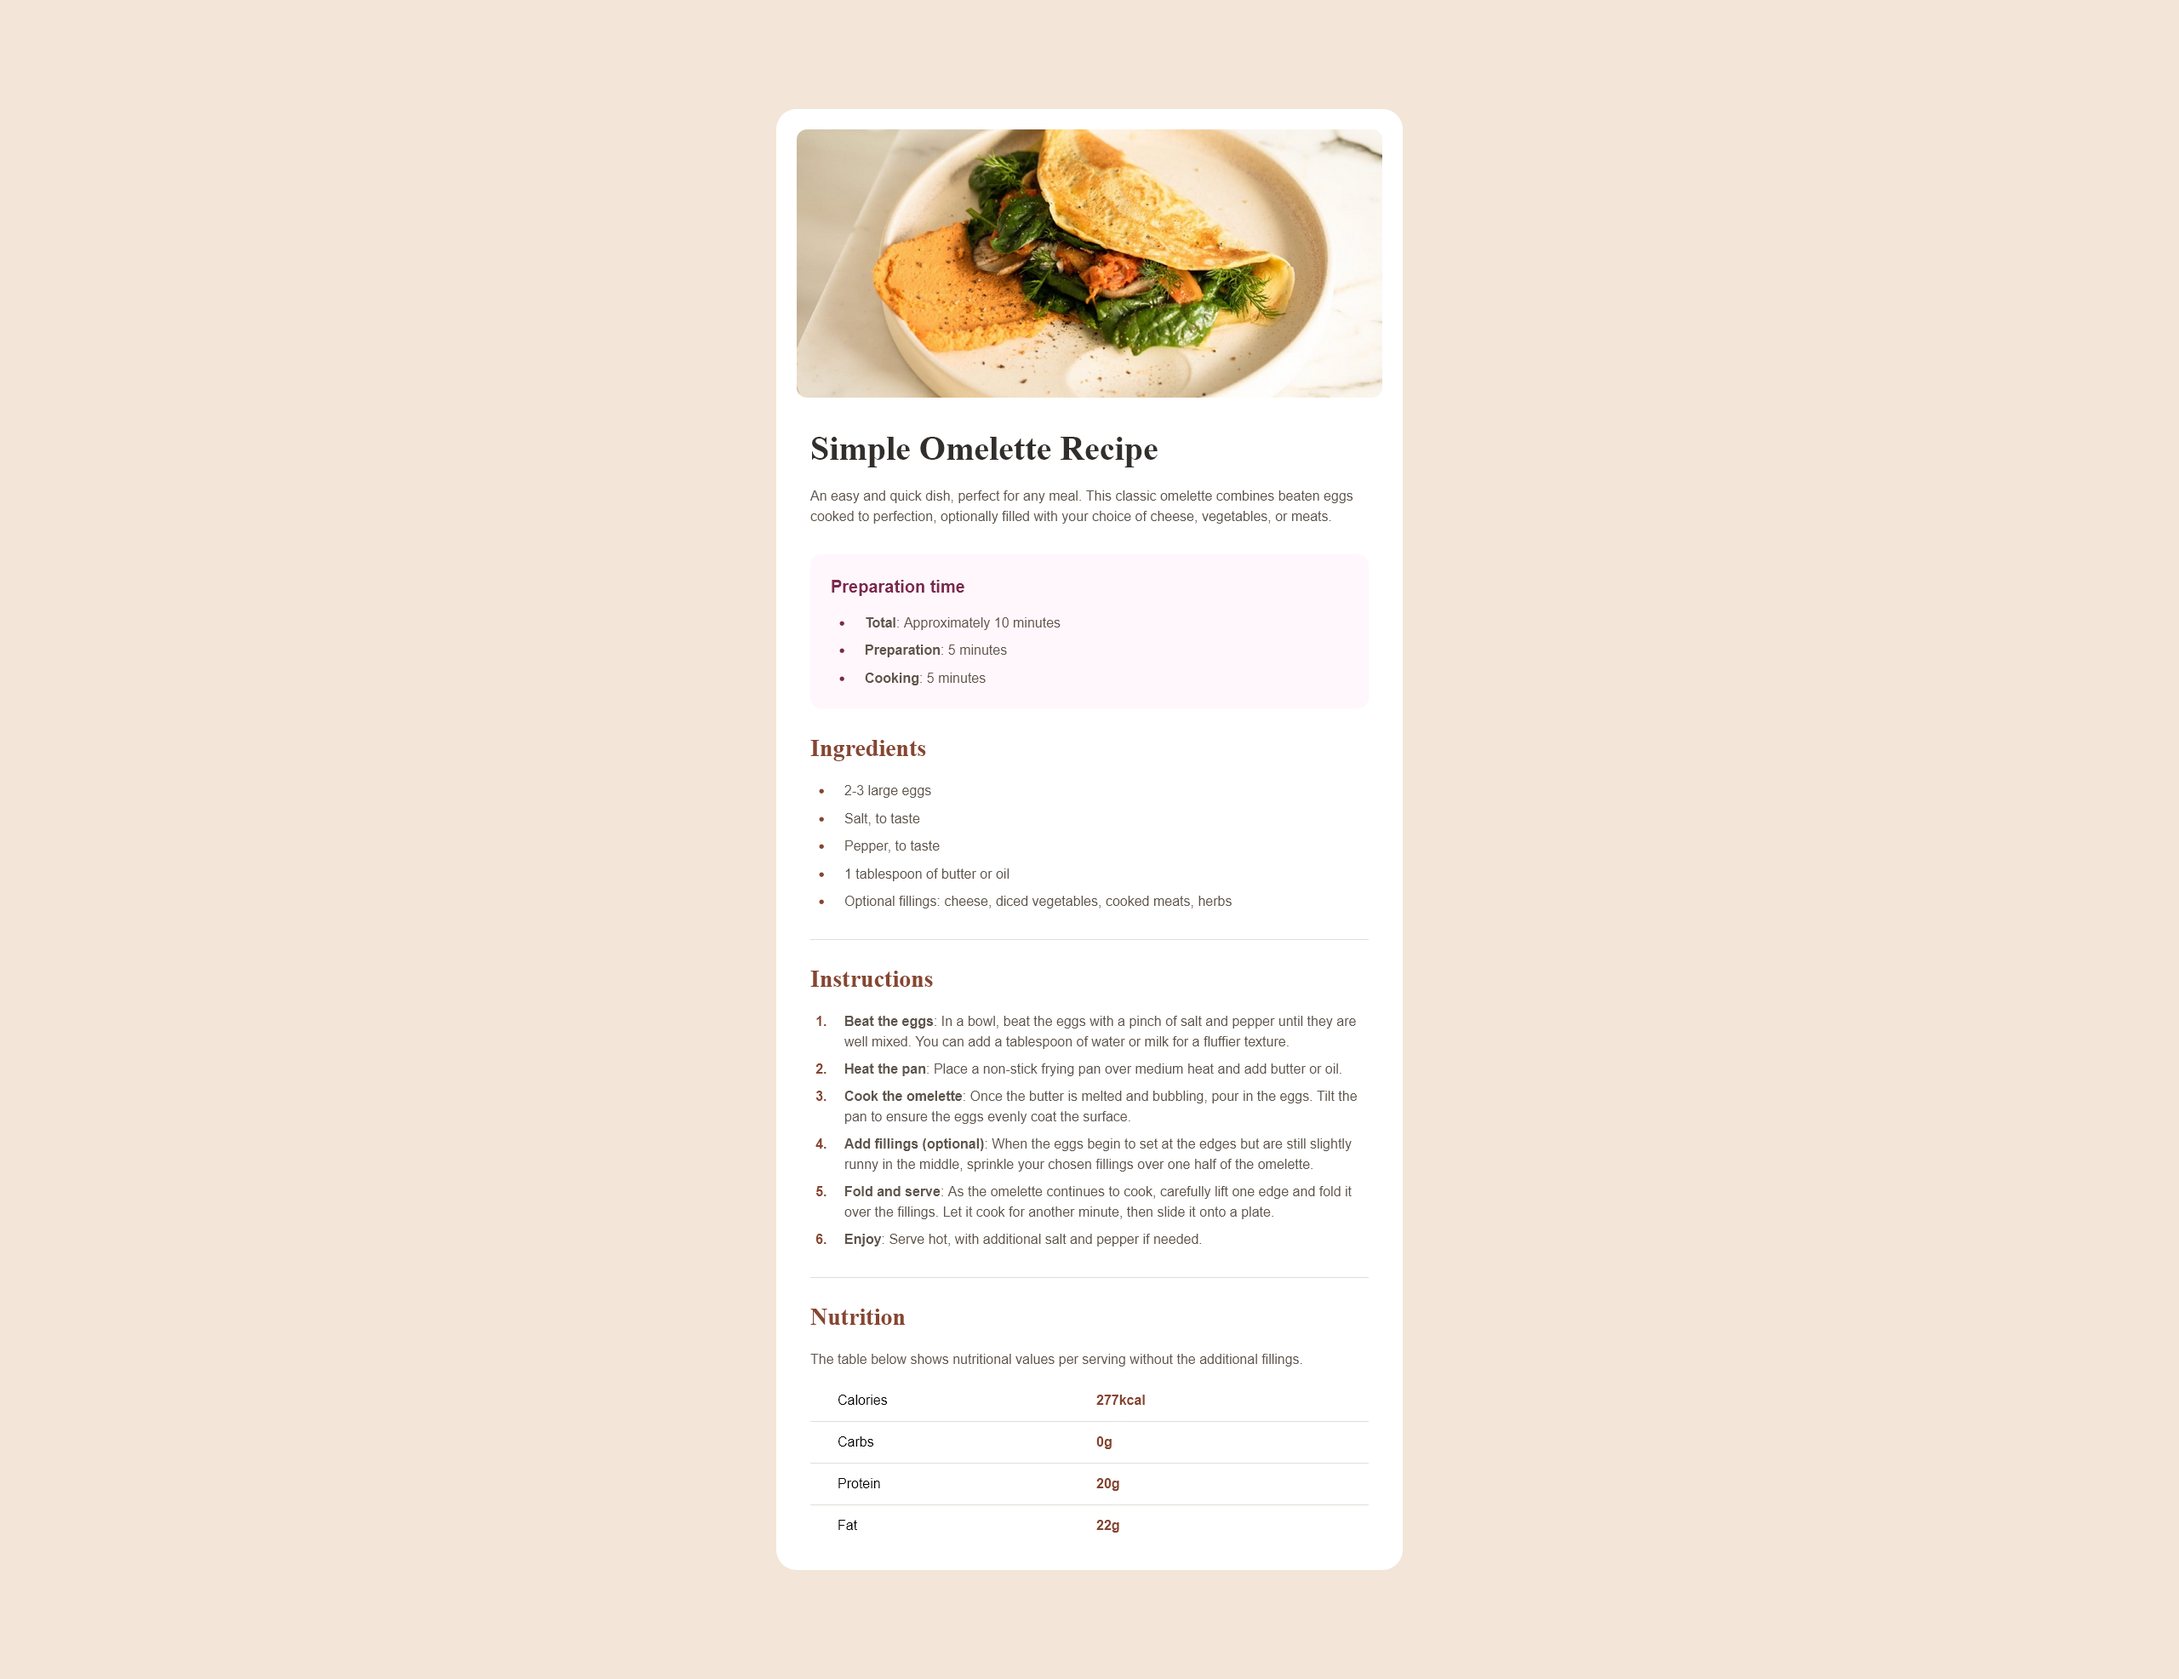
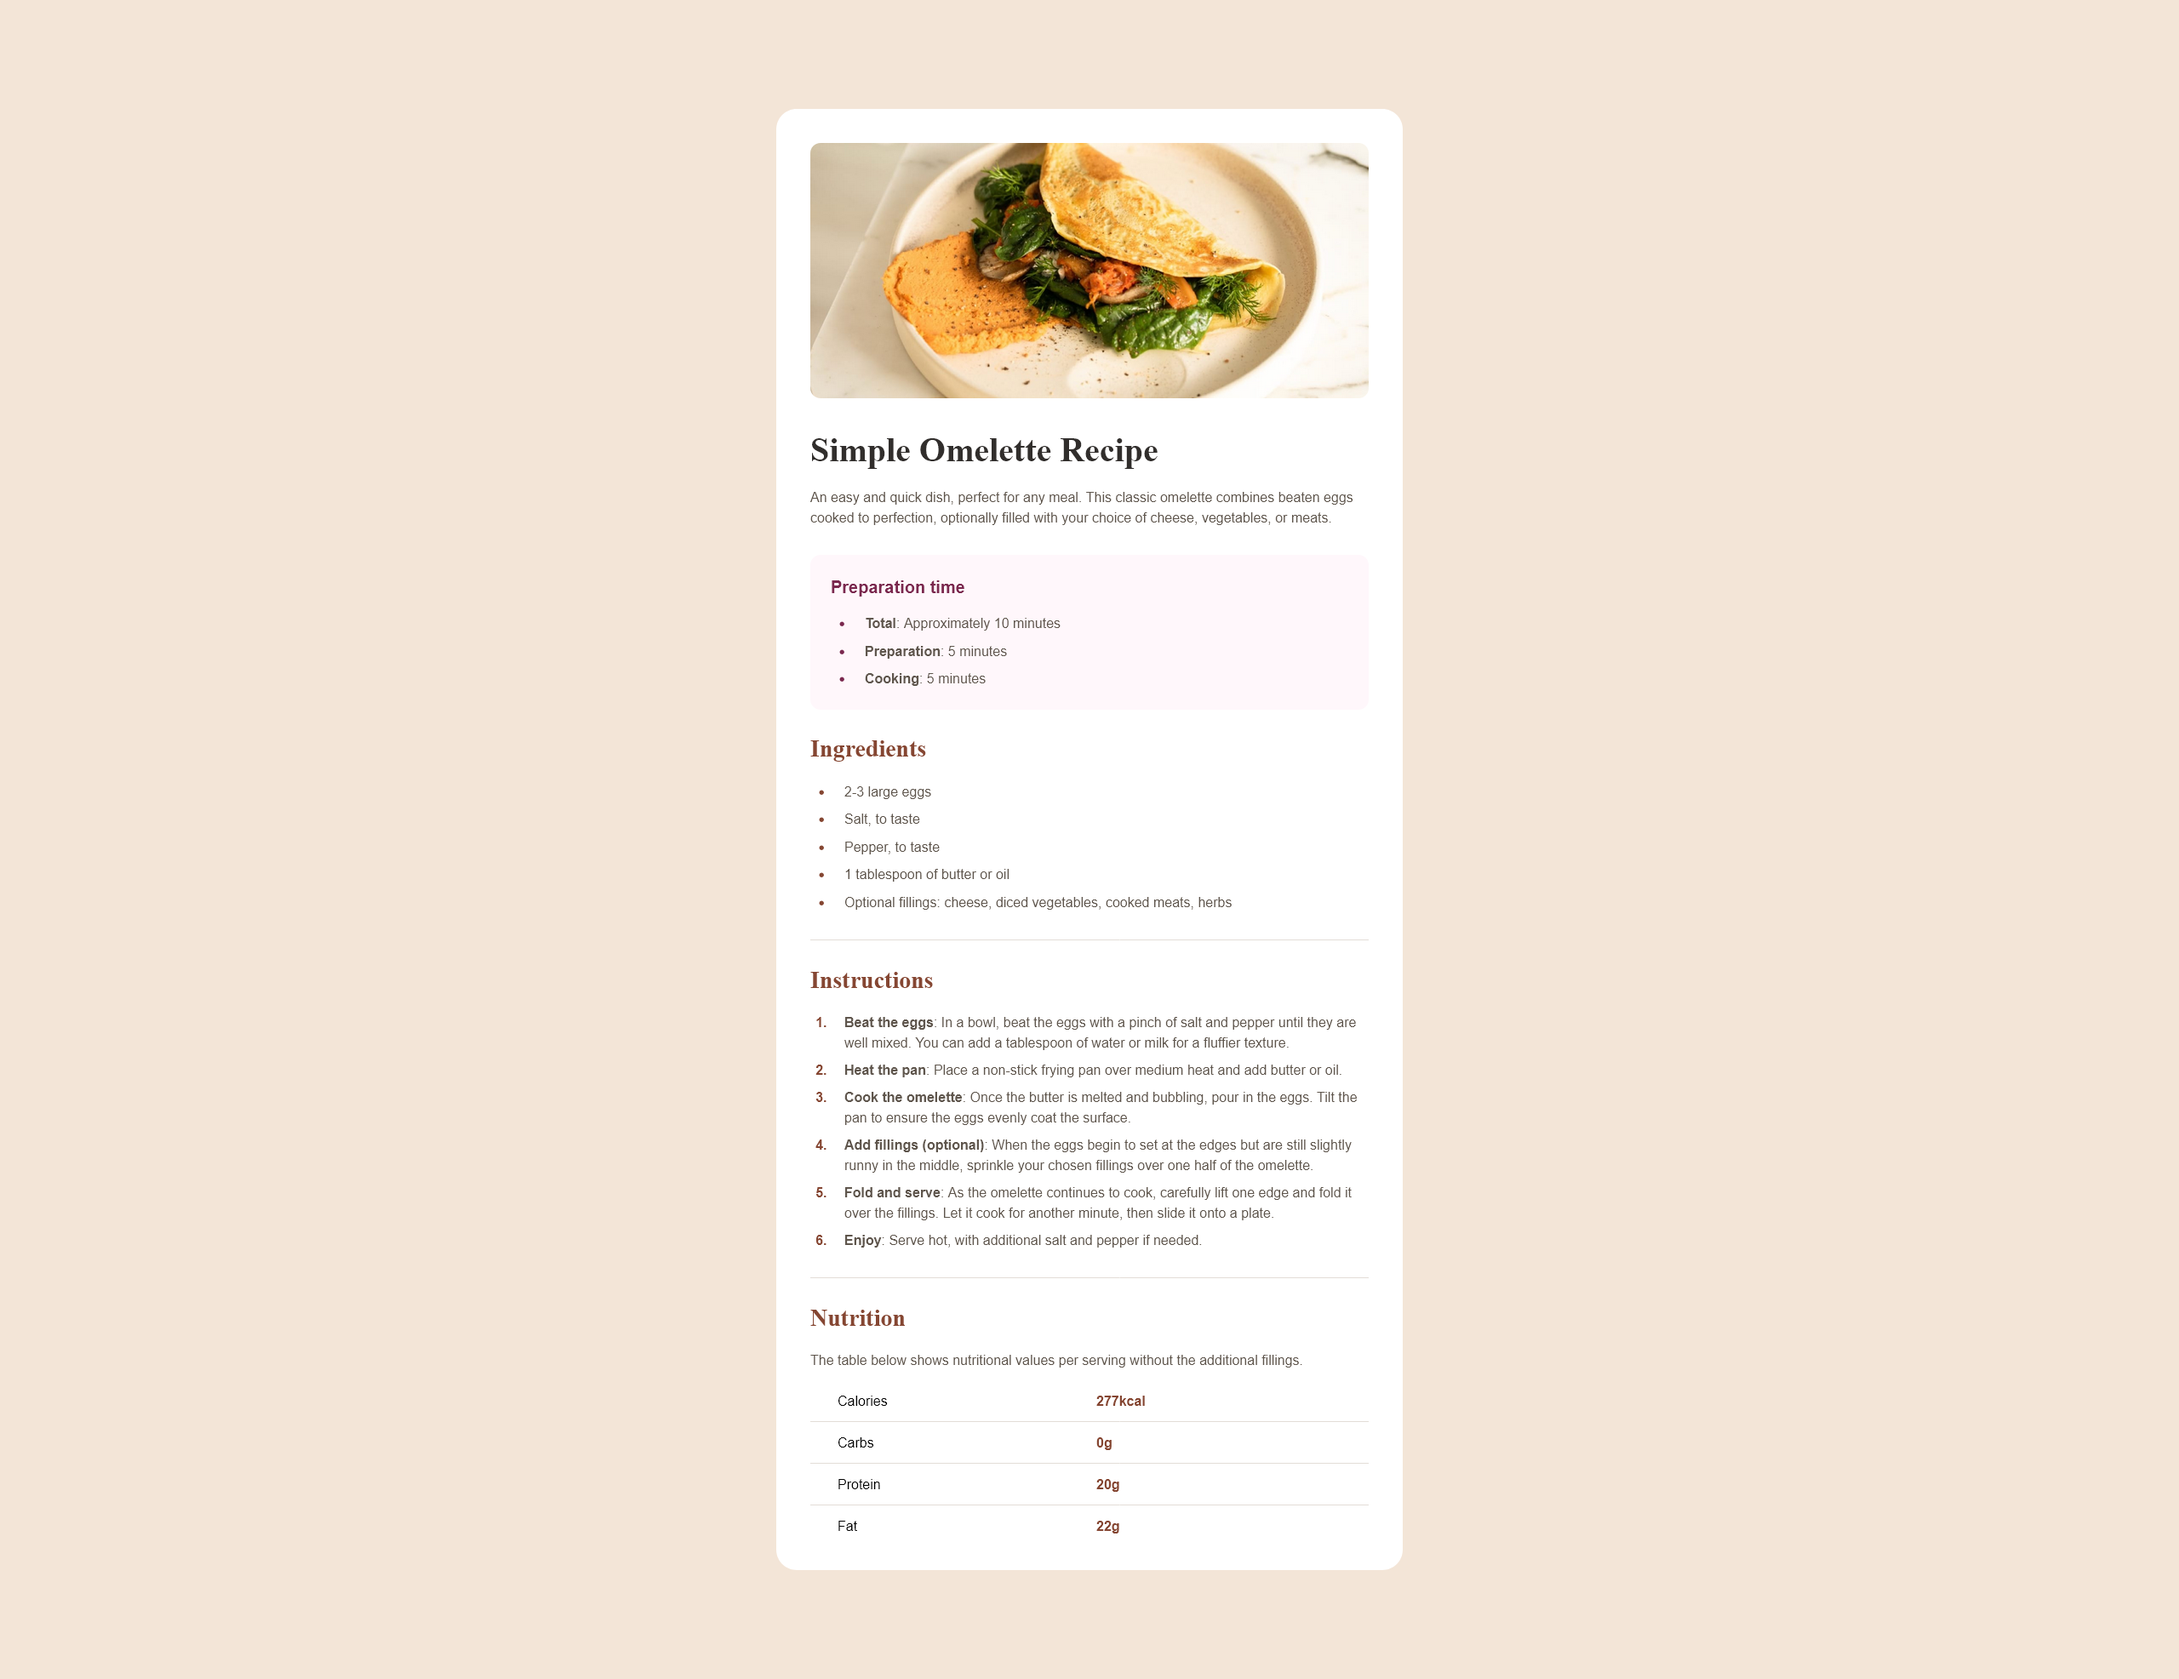
update image

diff --git a/index.html b/index.html
@@ -16,7 +16,7 @@
   </head>
   <body class="bg-stone-100 flex items-center justify-center w-full">
     <div class="bg-white md:max-w-[736px] md:rounded-3xl md:my-32">
-      <div class="md:mt-6 md:mx-6">
+      <div class="md:mt-10 md:mx-10">
         <img
           src="./images/image-omelette.jpeg"
           alt="omelette image"

diff --git a/src/output.css b/src/output.css
@@ -794,8 +794,17 @@ video {
     margin-bottom: 8rem;
   }
 
+  .md\:mx-10 {
+    margin-left: 2.5rem;
+    margin-right: 2.5rem;
+  }
+
   .md\:mt-6 {
     margin-top: 1.5rem;
+  }
+
+  .md\:mt-10 {
+    margin-top: 2.5rem;
   }
 
   .md\:max-w-\[736px\] {
